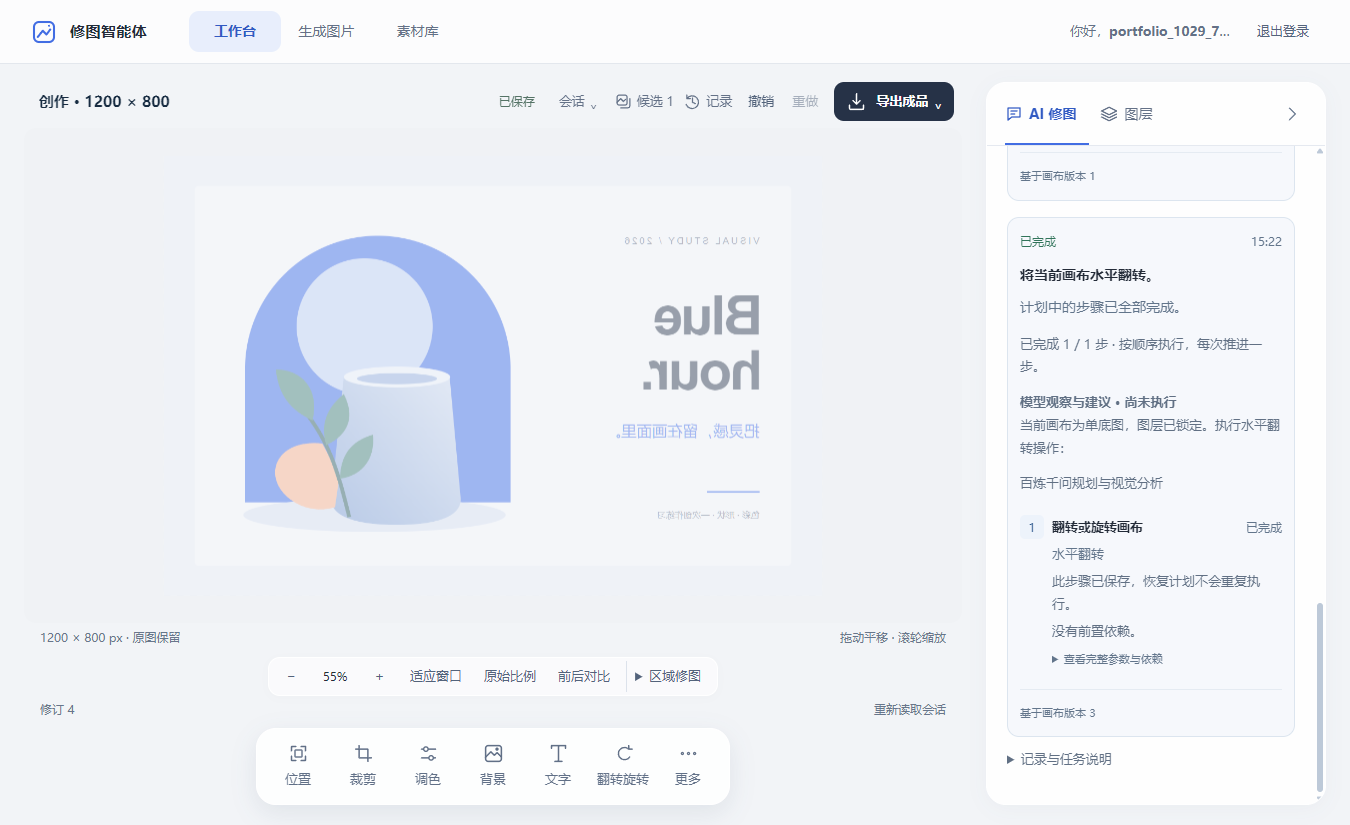
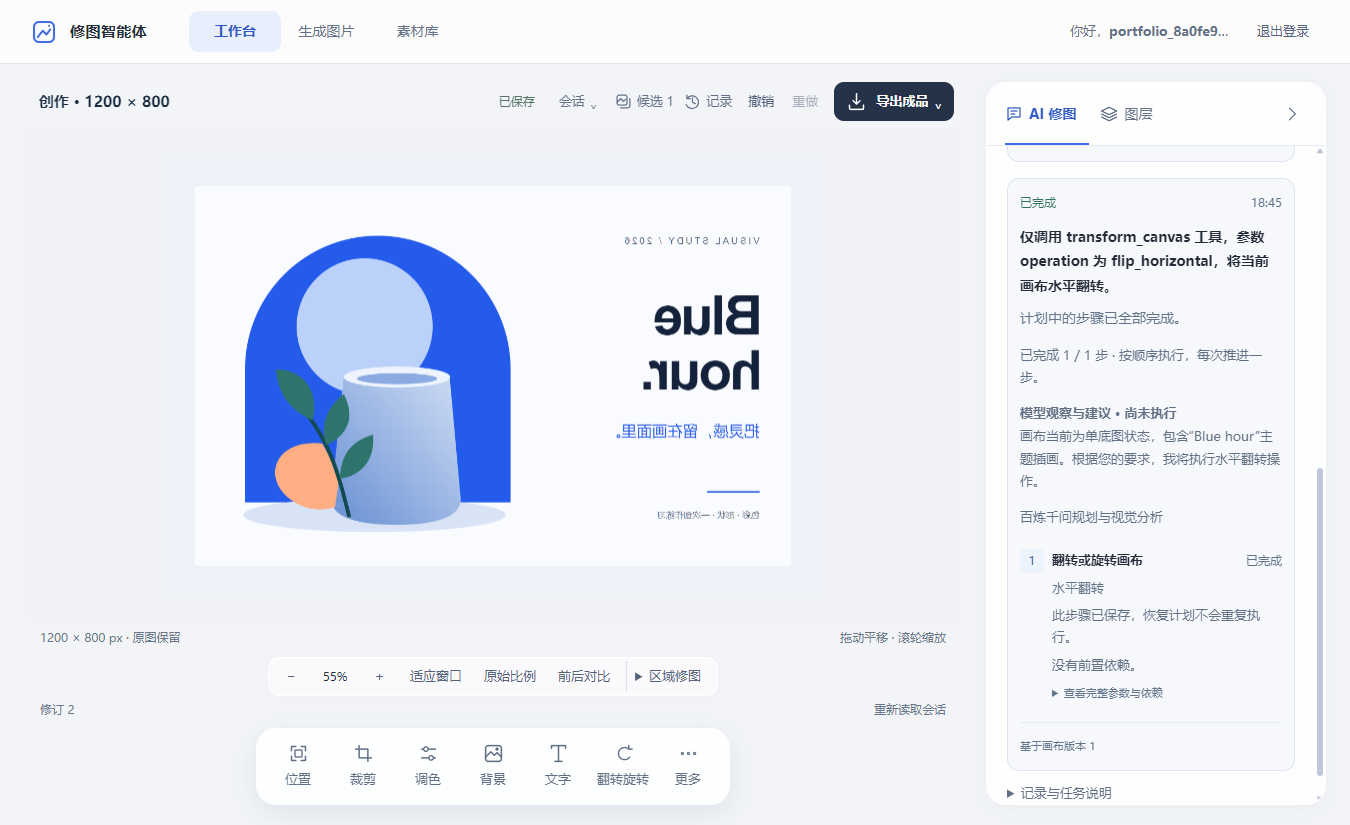
补齐同次运行的计划确认与完成截图

diff --git a/assets/portfolio.jsx b/assets/portfolio.jsx
@@ -15,7 +15,8 @@
     ];
     const FILTERS=[{id:"all",label:"全部证据"},{id:"workflow",label:"工作流"},{id:"rag",label:"知识检索"},{id:"api",label:"业务 API"}];
     MEDIA.push(
-      {id:"picture-result",group:"picture",title:"执行完成与画布结果",src:"assets/ai-picture-editor/process-result.png",alt:"水平翻转后的真实画布与已完成计划记录",caption:"确认后执行本地翻转，结果保存到会话。此例验证本地编辑链路，不涉及AI生图或云端图片处理。"}
+      {id:"picture-plan",group:"picture",title:"待确认的实际工具计划",src:"assets/ai-picture-editor/process-plan.png?v=paired",alt:"真实运行的待确认水平翻转计划，包含工具名称、等待确认状态及确认执行按钮，画布修订为1",caption:"同一次运行的执行前状态：将水平翻转要求明确为 transform_canvas / flip_horizontal，核对步骤后再确认。此时画布修订为1。"},
+      {id:"picture-result",group:"picture",title:"执行完成与画布结果",src:"assets/ai-picture-editor/process-result.png?v=paired",alt:"水平翻转后的真实画布与已完成计划记录",caption:"确认后执行本地翻转，结果保存到会话。此例验证本地编辑链路，不涉及AI生图或云端图片处理。"}
     );
     const ENGINEERING_MEDIA=MEDIA.slice(0,6);
     const mediaById=id=>MEDIA.find(item=>item.id===id);
@@ -130,7 +131,7 @@
             <li><span className="journey-number">04</span><div><h3>按顺序推进，记录每一步</h3><p>翻转、裁剪和调色等本地工具直接保存编辑；生图、整图编辑等图片任务进入队列，由 Worker 处理并返回状态。每次推进核对预期版本，画布变化后停止剩余步骤。</p></div><span className="journey-output">步骤与任务状态</span></li>
             <li><span className="journey-number">05</span><div><h3>检查结果，再决定保留</h3><p>本地修改进入编辑历史，可以撤销。图片任务完成后把结果加入候选区，用户再决定是否采用。最终按已保存的画布合成导出 PNG、JPG，或多尺寸 ZIP。</p></div><span className="journey-output">可继续编辑的结果</span></li>
           </ol>
-          <div className="process-evidence"><figure><MediaButton id="picture-result" onOpen={openMedia}/><figcaption><h3>执行后：查看画布与记录</h3><p>本地水平翻转已完成，页面显示结果及保存后的状态。</p></figcaption></figure></div>
+          <div className="process-evidence"><figure><MediaButton id="picture-plan" onOpen={openMedia}/><figcaption><h3>执行前：核对实际工具步骤</h3><p>待确认状态为 0 / 1 步，画布修订为 1。本次明确了翻转工具与参数，仍需点击确认才会执行。</p></figcaption></figure><figure><MediaButton id="picture-result" onOpen={openMedia}/><figcaption><h3>执行后：查看画布与记录</h3><p>同一次运行完成水平翻转，计划为 1 / 1 步，画布修订更新为 2，可用撤销恢复。</p></figcaption></figure></div>
           <details className="agent-details" onToggle={()=>window.ScrollTrigger?.refresh()}><summary>画布变了、执行中断了，会怎样？</summary><div className="agent-detail-grid"><section><h3>版本变化</h3><p>规划和执行绑定画布版本。中途手动修改后，旧计划停止推进，避免用旧上下文继续编辑。</p></section><section><h3>任务中断</h3><p>已提交的图片任务保留编号。符合恢复条件时读取原结果或查询原任务；本地失败步骤回滚后，可明确选择重试该步。</p></section><section><h3>取消与撤销</h3><p>取消会停止后续步骤，已完成的编辑仍保留；已提交的图片任务可能继续。需要恢复画布时使用撤销。</p></section></div></details>
         </section>
         <div className="release-row reveal-copy"><div><h3>下载本机版本</h3><p id="picture-install-note">Windows x64 · 需 Docker Desktop</p></div><ExternalLink className="button primary" href="https://github.com/nigu666/ai-picture-editor/releases/latest">下载体验</ExternalLink><ExternalLink className="text-link" href="https://github.com/nigu666/ai-picture-editor/releases/tag/v0.1.0">版本说明 · v0.1.0</ExternalLink></div>

diff --git a/index.html b/index.html
@@ -10,13 +10,13 @@
   <script crossorigin src="https://unpkg.com/react@18.3.1/umd/react.development.js"></script>
   <script crossorigin src="https://unpkg.com/react-dom@18.3.1/umd/react-dom.development.js"></script>
   <script src="https://unpkg.com/@babel/standalone@7.26.10/babel.min.js"></script>
-<link rel="stylesheet" href="assets/project.css?v=20261029-agent">
+<link rel="stylesheet" href="assets/project.css?v=20261029-screens">
   <script defer src="assets/vendor/gsap/gsap.min.js"></script>
   <script defer src="assets/vendor/gsap/ScrollTrigger.min.js"></script>
 </head>
 <body>
   <div id="root"></div>
   <noscript>请启用 JavaScript 以查看雷雨天的 AI 应用工程师作品集。</noscript>
-  <script type="text/babel" src="assets/portfolio.jsx?v=20261029-agent"></script>
+  <script type="text/babel" src="assets/portfolio.jsx?v=20261029-screens"></script>
 </body>
 </html>

diff --git a/README.md b/README.md
@@ -19,7 +19,7 @@
 
 页面提供个人参与、开发过程与版本下载。工程证据支持筛选，图片只在当前项目或筛选结果内切换，支持放大、查看原图细节、恢复适应窗口、方向键切换、Escape 关闭和焦点归还；单图项目不显示翻页按钮。查看细节时可在图片区域滚动，切换图片后恢复适应窗口。选中项目写入地址参数，刷新后保留项目选择，既有案例链接仍可定位。
 
-修图案例进一步展示上下文读取、工具规划与校验、人工确认、顺序执行、结果采用与导出五个环节，并说明版本变化、任务中断及取消后的处理。本机真实截图展示“水平翻转”的执行完成状态，使用专用展示账号与自制海报；此例只验证本地编辑链路。水产助手以四步说明分类、参数补齐、检索或业务接口、回答组织，与原有证据图片对应。
+修图案例进一步展示上下文读取、工具规划与校验、人工确认、顺序执行、结果采用与导出五个环节，并说明版本变化、任务中断及取消后的处理。同一次运行的两张真实截图展示“水平翻转”待确认与完成状态：步骤从0/1变为1/1，画布修订从1变为2。使用专用展示账号与自制海报，演示指令明确了工具和参数；此例只验证本地编辑链路。水产助手以四步说明分类、参数补齐、检索或业务接口、回答组织，与原有证据图片对应。
 
 按钮按下、项目选择与作品切入提供即时反馈。顶部细线显示阅读进度，向下阅读后出现返回顶部按钮。GSAP ScrollTrigger 负责舞台退远与案例的一次性出场，不锁定页面滚动；页面尊重系统“减少动态效果”设置，不自动轮播。
 
